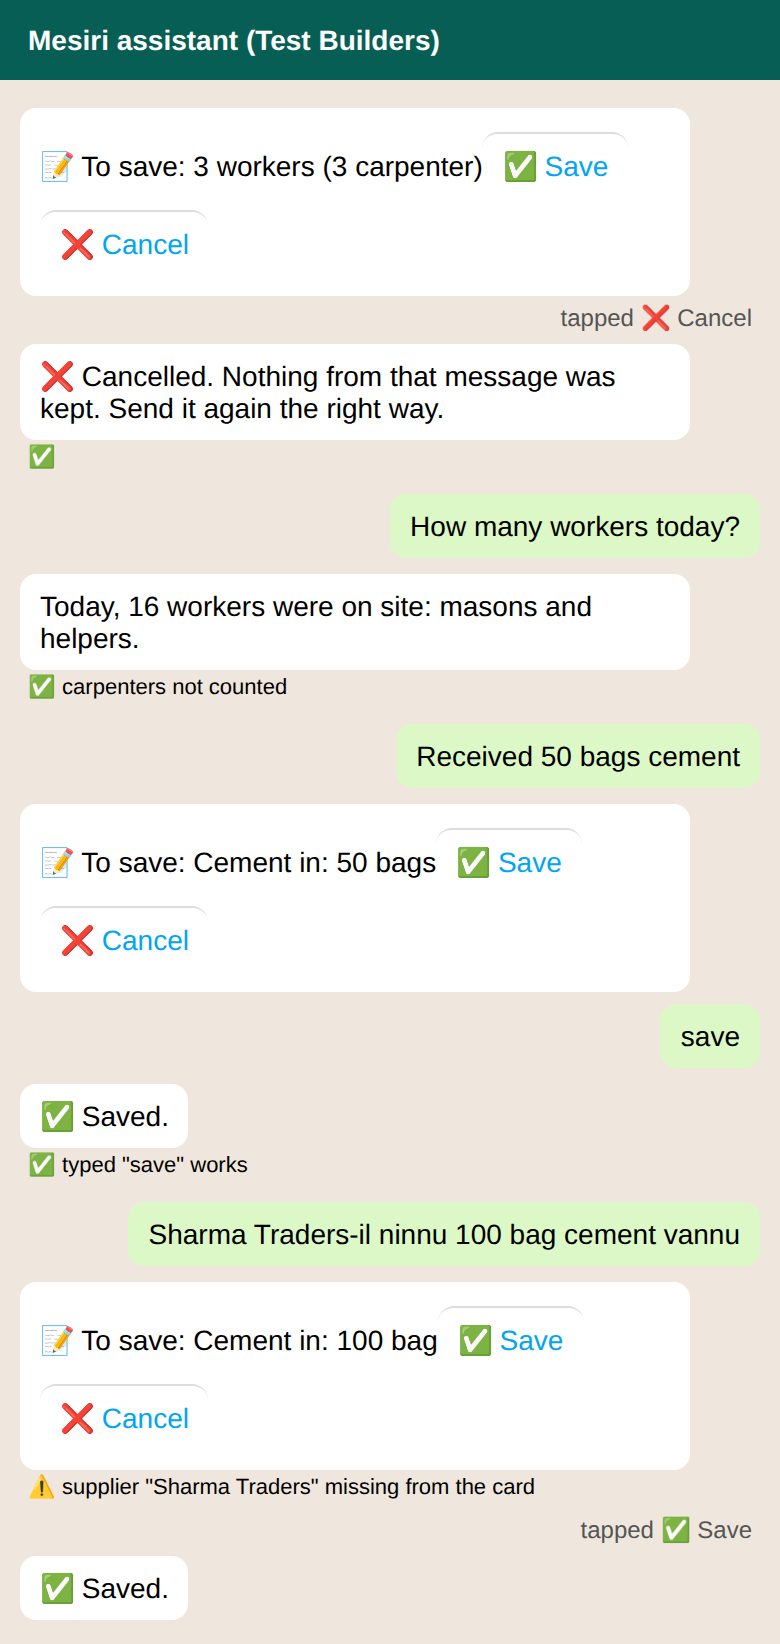
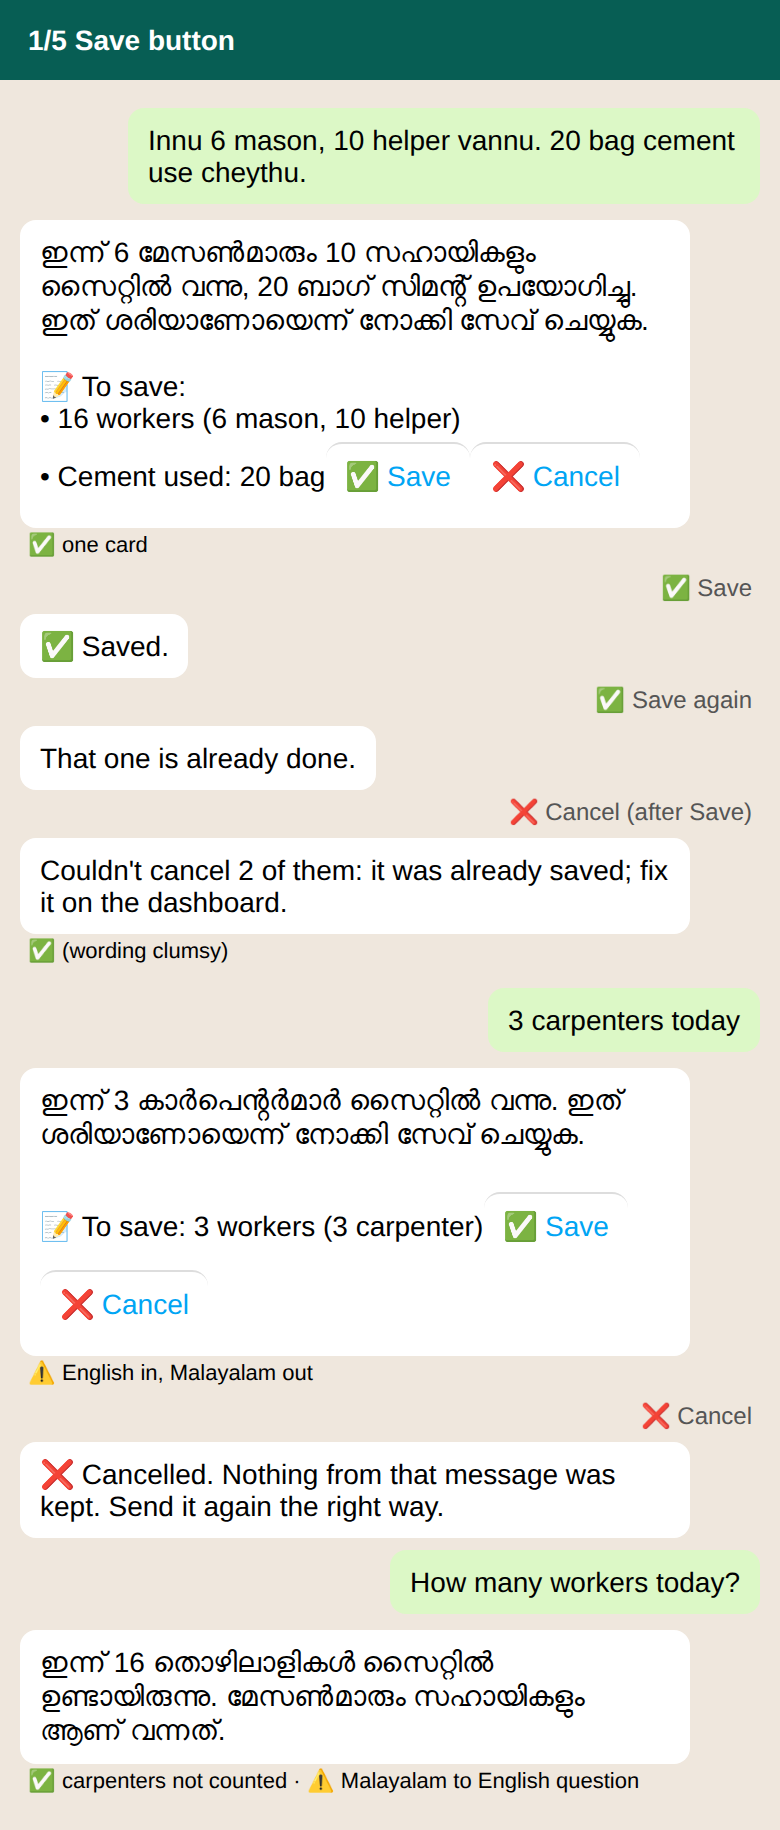
docs(qa): WA-35/36 round-2 test evidence replaces round 1
Claude-Session: https://claude.ai/code/session_012Zu6zLjxHQC6ebkoqM9uwo

diff --git a/docs/qa/runs/2026-10-21-WA-35-36/REPORT.md b/docs/qa/runs/2026-10-21-WA-35-36/REPORT.md
@@ -1,42 +1,66 @@
-# WA-35 / WA-36 live test, 21 Oct 2026
+# WA-35 / WA-36 live test, round 2, 21 Oct 2026
 
-> **TEMPORARY test evidence: delete this folder once the WA-35/36 follow-up fixes are verified live** (`git rm -r docs/qa/runs/2026-10-21-WA-35-36`).
+> **TEMPORARY test evidence: delete this folder once the follow-up fixes are verified live** (`git rm -r docs/qa/runs/2026-10-21-WA-35-36`).
 
-- **Date:** 21 Oct 2026
+- **Date:** 21 Oct 2026, ~13:10-13:35 IST (round 2)
 - **Company:** Mesiri Test Builders (agent mode); **site:** Green Villa, Kakkanad
-- **Tester:** the team bot, via `test_assistant`; 25 sends
-- **Screenshots:** [1-save-button.png](1-save-button.png), [2-materials-stock.png](2-materials-stock.png), [3-general-malayalam.png](3-general-malayalam.png). They are redrawn from the assistant's real replies (`preview_html`), **not** phone captures.
+- **Tester:** the team bot, via `test_assistant`; 37 sends
+- **Screenshots:** [1](1-save-button.png), [2](2-materials.png), [3](3-stock-questions.png), [4](4-general-chat.png), [5](5-issues-reports-multipart.png). They are redrawn from the assistant's real replies (`preview_html`), **not** phone captures.
+- **Replaces round 1** (morning, 25 sends); round 1 is in git history at `b3549d1`.
 
-## Passed
+## Fixed since round 1
 
-| Step | Result |
-|---|---|
-| "Innu 6 mason, 10 helper vannu. 20 bag cement use cheythu." | PASS: card "📝 To save: 16 workers (6 mason, 10 helper) / Cement used: 20 bags" with Save / Cancel / team photo |
-| Tap Save | PASS: "✅ Saved." |
-| Tap Save again | PASS: "That one is already done." |
-| Cancel after Save | PASS: "Couldn't cancel 2 of them: it was already saved; fix it on the dashboard." (wording clumsy) |
-| "3 carpenters today", then Cancel | PASS: card, then "❌ Cancelled. Nothing from that message was kept. Send it again the right way." |
-| "How many workers today?" | PASS: "Today, 16 workers were on site: masons and helpers." (carpenters not counted) |
-| "Received 50 bags cement", then typed "save" | PASS: "✅ Saved." |
-| "സിമന്റ് സ്റ്റോക്ക് എത്ര ഉണ്ട്?" | PASS: "ഇപ്പോൾ 338 ചാക്ക് സിമന്റ് സ്റ്റോക്കുണ്ട്." (no Save button) |
-| "cement vannu" | PASS: "എത്ര ചാക്ക് സിമന്റ് ആണ് വന്നത്?" |
-| "ente peru ariyamo?" | PASS: name given |
+- Supplier is shown: "Cement in: 100 bag (Sharma Traders)".
+- "slab-inu 20 bag cement use cheythu" gives one card "Cement used: 20 bag (slab)", no "Which site?".
+- "50 bags cement" asks Received / Used.
+- The rain note now uses the Save card.
+- The Manglish greeting varies.
+- The 3-part note "2nd floor plastering 50% aayi, 4 mason vannu, 15 bag cement use cheythu" gives one card with 3 lines.
 
-## Failed
+## Results per group
 
-1. **FAIL 1: stock questions about the slab become engineer questions.** "nale slab-inu cement mathiyo?" and "is there enough cement for tomorrow's slab?" gave "📝 To save: Question for your engineer…" instead of an answer using the stock (338).
-2. **FAIL 2: "saved" / "Recorded" before Save was tapped.** The engineer-question card says "…has been saved" / "സേവ് ചെയ്തിട്ടുണ്ട്"; the slab card's second message says "Material used: Recorded".
-3. **FAIL 3: two replies to one message.** "slab-inu 20 bag cement use cheythu" gave the card plus "Not saved yet. Which site is this for? … 2. Work done (“slab”): Not saved yet", although the sender has only one site.
-4. **FAIL 4: weather note saved without Save.** "ഇന്ന് മഴയാണ്, പണി കുറവാണ്" was saved straight away: "✅ Saved: Issue reported: WEATHER today, പണി കുറവാണ് … Wrong? Reply UNDO." (raw enum, old UNDO).
+### 1. Save button (screenshot 1): PASS
+- Card with Save; Save again -> "That one is already done."
+- Cancel after Save -> "Couldn't cancel 2 of them: it was already saved; fix it on the dashboard."
+- "3 carpenters today", then Cancel -> "❌ Cancelled…"
+- "How many workers today?" -> 16 (carpenters not counted).
+- **WARN:** English messages are answered in Malayalam.
 
-## Minor
+### 2. Materials (screenshot 2)
+- PASS: supplier shown, slab purpose kept, Received / Used question.
+- **FAIL:** garbled text "സ്ല clientIdb-ന്" in the slab reply.
+- **FAIL:** "Received 40 bags sand from Kerala Sands" -> asks about cubic metres; answering "No" -> "No problem — please resend the report with the correct unit." The entry is dropped; it should save 40 bags.
 
-- Supplier "Sharma Traders" is missing from the "Cement in: 100 bag" card.
-- "50 bags cement" was assumed to be received (a received/used question was expected).
-- "10 bag cement balance und, kooduthal venam" gave a good shortage card with stock 338/575/237, but no flag for worker's 10 vs system's 338.
-- English "thanks bro 👍" got a Malayalam reply.
+### 3. Stock (screenshot 3)
+- PASS: "സിമന്റ് സ്റ്റോക്ക് എത്ര ഉണ്ട്?" -> 318 (338 − 20 used today); "sand stock?" -> none recorded.
+- **FAIL:** "nale slab-inu cement mathiyo?" and "is there enough cement for tomorrow's slab?" are saved immediately as a SITE ISSUE "Other" (receipt card "SAVED · DRAFT", SI-211026-4C64 / SI-211026-1E99) with no Save button and no stock-based answer. The English one repeats the "📨 Question for your engineer" line twice.
+- **WARN:** "innale ethra cement use cheythu?" -> "total used 427" does not match the stock card (received 575 / used 237, so ~257 now).
+
+### 4. General chat (screenshot 4): PASS
+- "enthokke und vishesham?", "ningal aara?", "bore adikkunnu", "tell me a joke" (brick joke), "are you hardcoded", "thanks bro 👍" -> "Anytime! 👍".
+- Note: Manglish is answered in Malayalam script.
+
+### 5. Issues / reports / multi-part (screenshot 5)
+- PASS: the rain Save card (**WARN:** says "രേഖപ്പെടുത്തിയിട്ടുണ്ട്" / recorded before Save); the 3-part card; "how many workers yesterday?" -> 16.
+- **FAIL:** "10 bag cement balance und, kooduthal venam" says "tap Save" but has no button; already saved as an engineer question SI-211026-BBCE, with no 10-vs-318 check.
+- **FAIL:** "innathe report ayakku" -> "today's DPR not prepared yet" despite today's saves ([67]).
+
+## Open problems
+
+1. Stock-sufficiency questions ("is there enough cement for the slab?", Malayalam and English) are saved as a site issue instead of answered from stock (318 bags); English one shows the engineer line twice.
+2. "10 bag balance, kooduthal venam" says "tap Save" with no button; saved as an engineer question without a stock check.
+3. Garbled word "സ്ല clientIdb-ന്" (a code word leaked into a reply).
+4. Sand "No" (keep bags) -> "please resend"; the entry is dropped.
+5. "innathe report ayakku" -> no DPR yet today, even with saves today ([67]).
+
+Smaller: English messages get Malayalam replies; "recorded" said before Save on the rain card; "total used 427" disagrees with the stock card (~257).
+
+## Test data left in Test Builders
+
+- Site issues SI-211026-4C64, SI-211026-1E99, SI-211026-BBCE.
+- Today's saved labour (16) and cement (used 20 at ~13:10, plus the round-1 saves).
 
 ## Not verified
 
-- The dashboard (today's report; stock page vs 338).
-- Whether `4bcd6df` was the running build (GitHub runs are not reachable from the bot; the WA-35 behaviour was observed live).
+- The dashboard (report, stock page).
+- Which commit the VPS runs (GitHub runs are not reachable from the bot).
